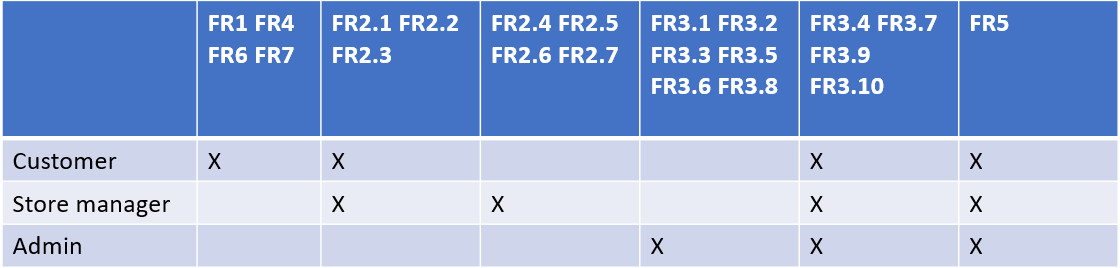
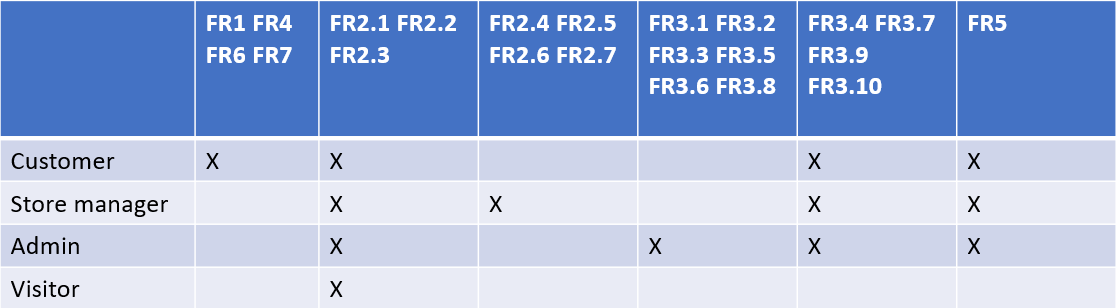
[EDIT] RDv2, table of rights, use case diagram

diff --git a/RequirementsDocumentV2.md b/RequirementsDocumentV2.md
@@ -113,7 +113,7 @@ EZElctronics è un'applicazione software pensata per aiutare i manager di negozi
 | Store Manager  | Utente che gestisce l'inventario e conferma gli ordini           |
 | Payment service  | Utilizzato per gestire le transazioni            |
 | Admin  |  Utente che gestisce gli altri utenti       |
-| Visitor| Fruitore del sito che non è autenticato |
+| Visitor| Fruitore del sito che non si registra |
 
 # Context Diagram and interfaces
 
@@ -236,7 +236,7 @@ Per gli use case: mostra utenti, eliminazione utente e filtra utenti si è segui
 
 
 
-![alt text](resources/UseCase_Diagram.png)
+![alt text](resources/UseCase_Diagram_V2.png)
 
 
 
